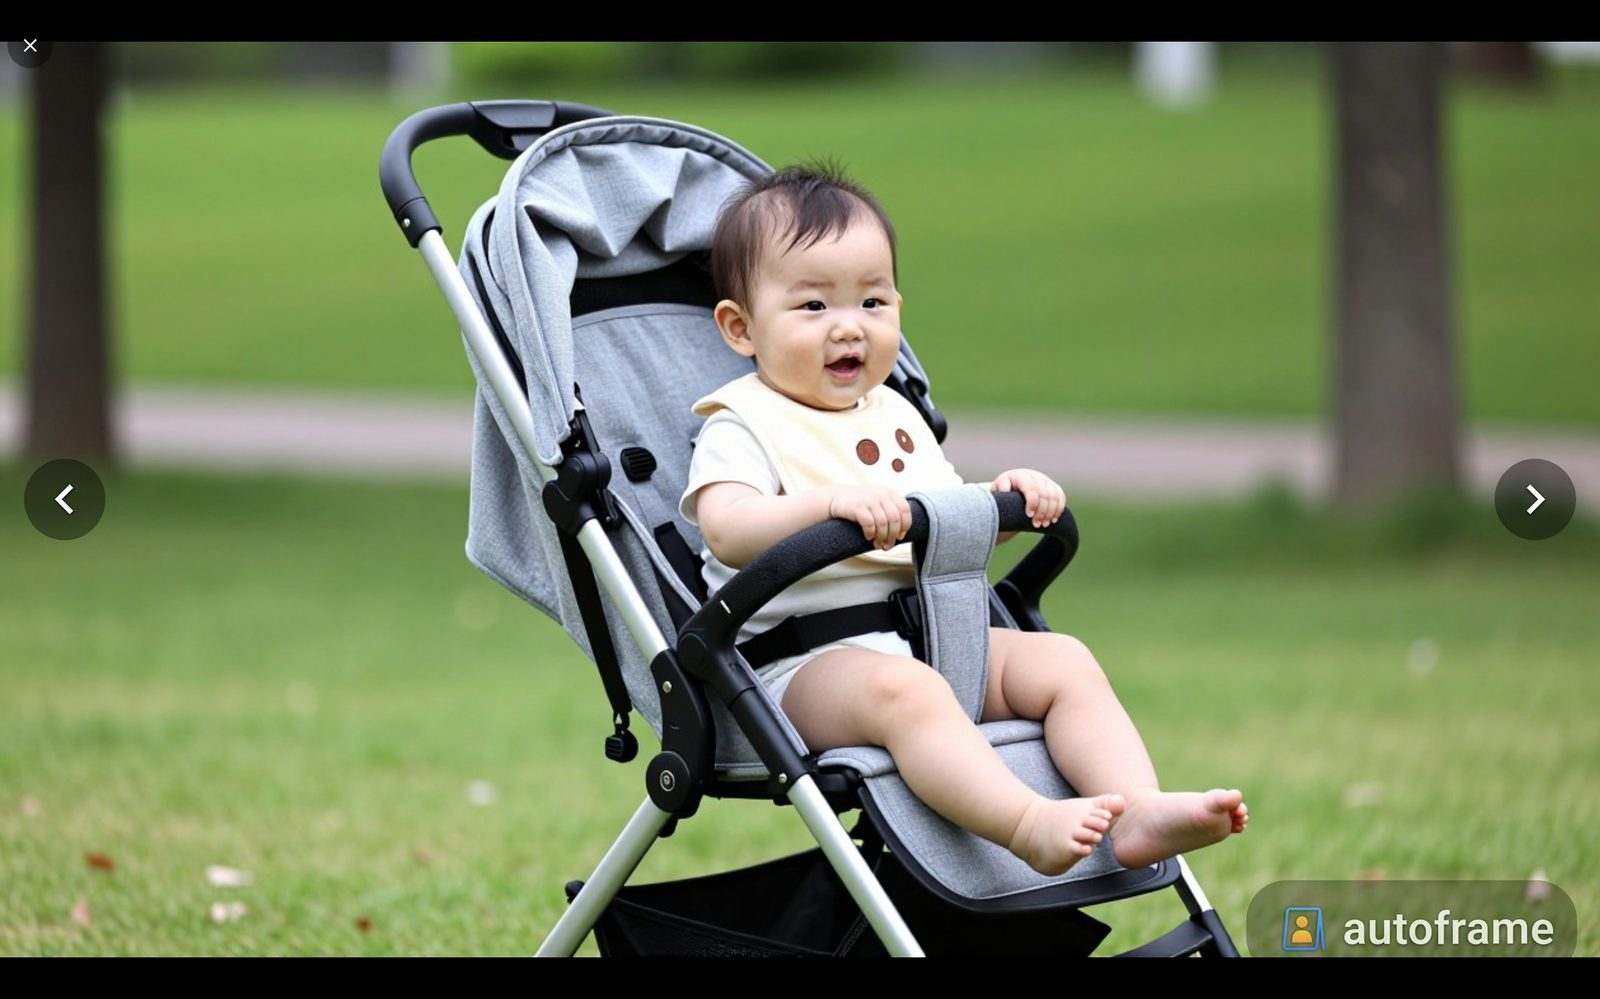
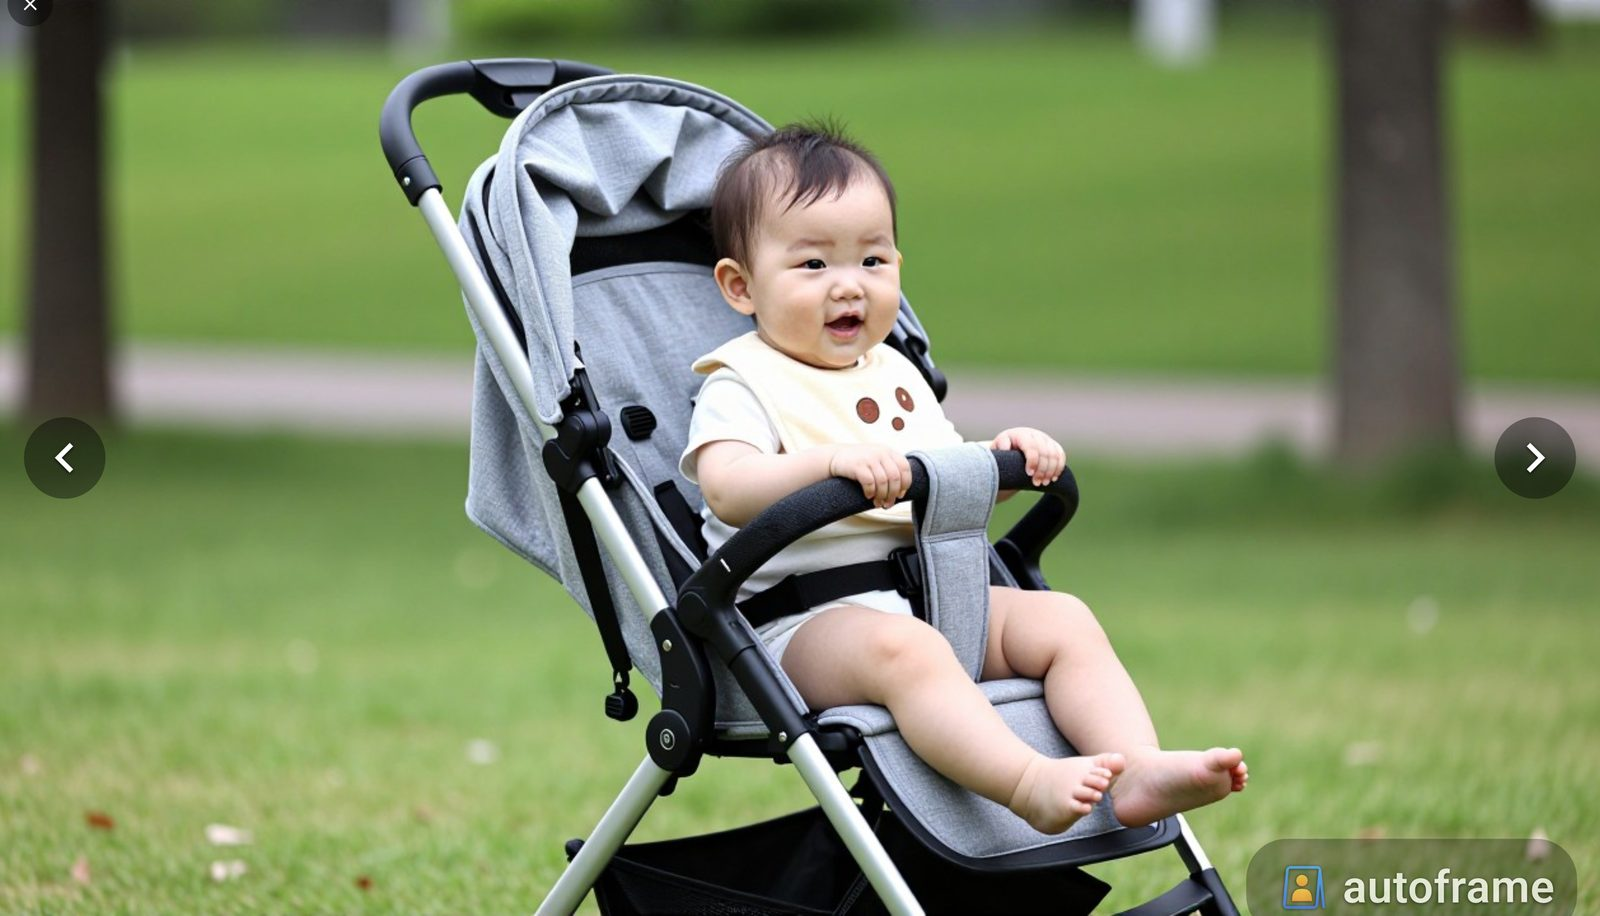
Crop the letterbox out of the hero screenshot
The app letterboxes the photo inside the 16:10 tablet screen, so the
screenshot carried 77px black bands top and bottom and the hero frame
showed them even with object-fit: cover. The web copies are now cropped
to the photo area (2960x1694), so the picture fills the frame.

diff --git a/index.html b/index.html
@@ -127,8 +127,8 @@
             <img class="shot-img"
                  src="assets/screens/slideshow-1600.jpg"
                  srcset="assets/screens/slideshow-800.jpg 800w, assets/screens/slideshow-1600.jpg 1600w"
-                 sizes="(max-width: 900px) 100vw, 420px"
-                 width="1600" height="999"
+                 sizes="(max-width: 900px) 100vw, 440px"
+                 width="1600" height="916"
                  alt="태블릿에 띄운 AutoFrame 슬라이드쇼 화면 — 유모차에 앉은 아기 사진이 전체 화면으로 표시되고 있다">
           </div>
         </div>

diff --git a/en/index.html b/en/index.html
@@ -127,8 +127,8 @@
             <img class="shot-img"
                  src="../assets/screens/slideshow-1600.jpg"
                  srcset="../assets/screens/slideshow-800.jpg 800w, ../assets/screens/slideshow-1600.jpg 1600w"
-                 sizes="(max-width: 900px) 100vw, 420px"
-                 width="1600" height="999"
+                 sizes="(max-width: 900px) 100vw, 440px"
+                 width="1600" height="916"
                  alt="The AutoFrame slideshow running full screen on a tablet, showing a baby sitting in a stroller">
           </div>
         </div>
